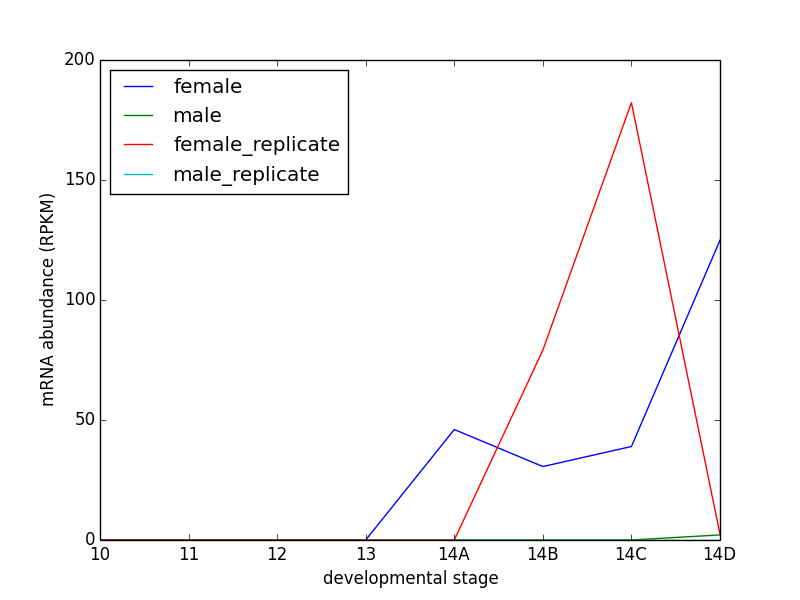
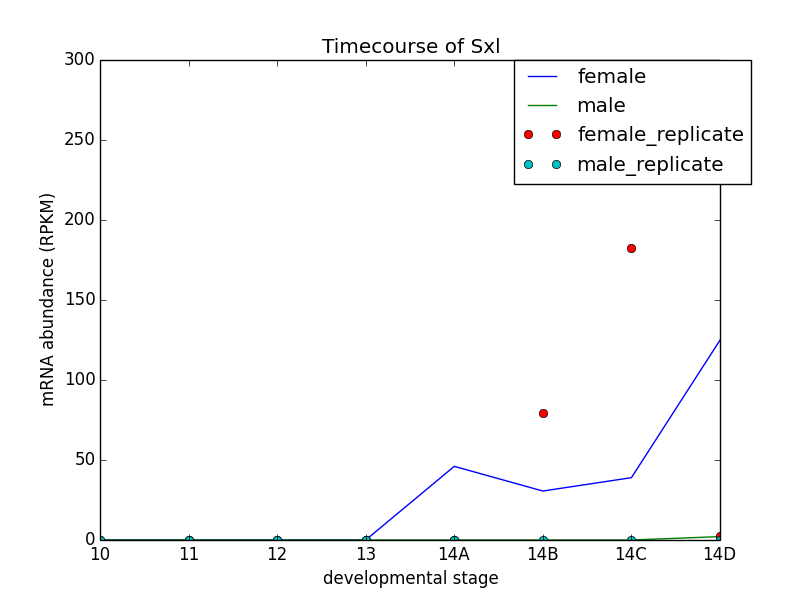
day3 lunch and homework

diff --git a/day3-lunch/exercise1.py b/day3-lunch/exercise1.py
@@ -36,14 +36,16 @@ for sample_male_replicate in metadata2[metadata2["sex"]=="male"]["sample"]:
 plt.figure()
 line1, =plt.plot(Sxl_female)
 line2, =plt.plot(Sxl_male)
-line3, =plt.plot(Sxl_female_replicate)
-line4, =plt.plot(Sxl_male_replicate)
+line3, =plt.plot(Sxl_female_replicate,'o')
+line4, =plt.plot(Sxl_male_replicate,'o')
 
-plt.legend((line1,line2,line3,line4),('female','male','female_replicate','male_replicate'),loc='best')
+plt.legend((line1,line2,line3,line4),('female','male','female_replicate','male_replicate'),loc='best',bbox_to_anchor=(1.05,1),borderaxespad=0.)
 
 plt.xlabel("developmental stage")
 plt.ylabel("mRNA abundance (RPKM)")
 plt.xticks(range(len(Sxl_female)),["10","11","12","13","14A","14B","14C","14D"])
+plt.yticks(range(0,350,50))
+plt.title("Timecourse of Sxl")
 plt.savefig("timecourse.png")
 
 
